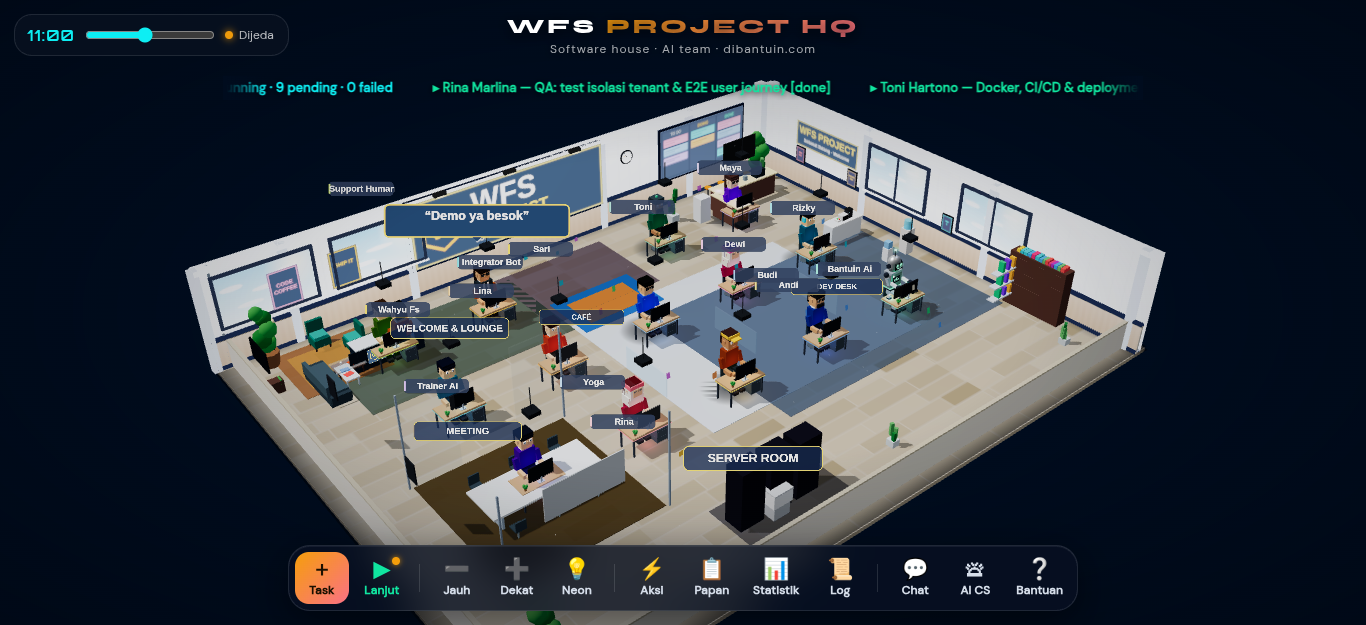
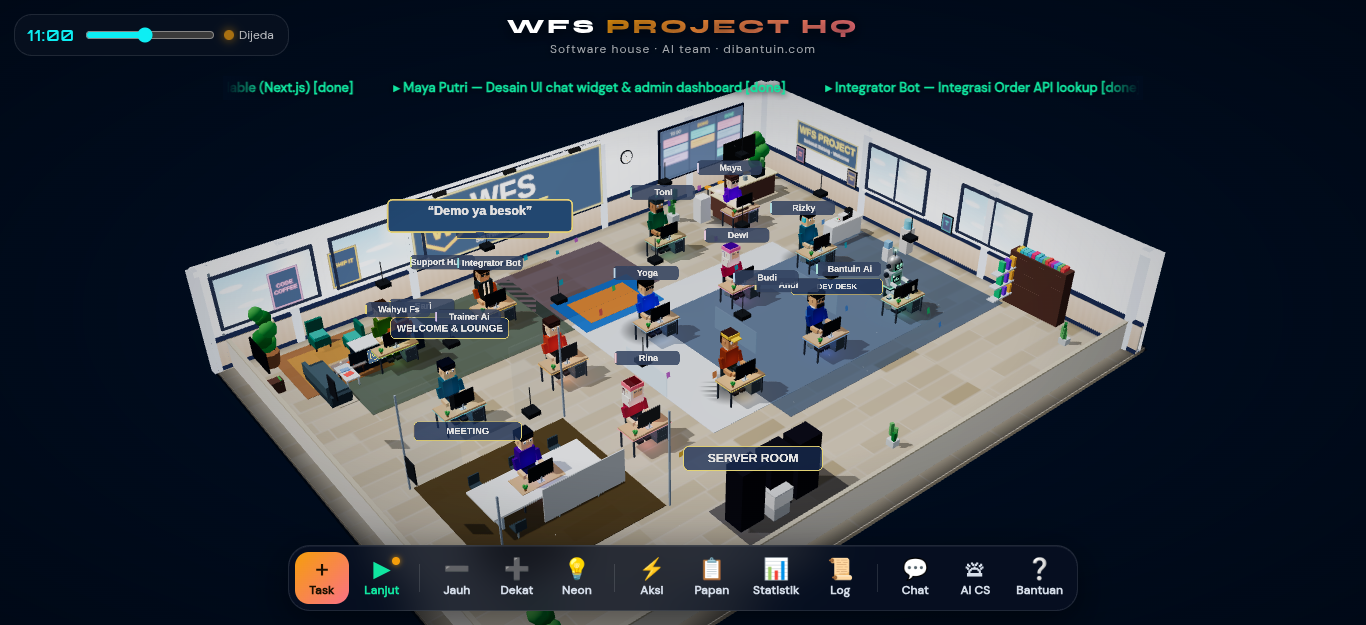
anti-overlap: bubble dialog ikut bergeser mutual (0.35x) saat tabrakan dengan label agent

diff --git a/DEV_LOG.md b/DEV_LOG.md
@@ -311,3 +311,8 @@
 - Insiden: satu eksperimen menimpa file; dipulihkan dari dangling stash commit (2104ca0c) — backup /tmp/OS.bak menyelamatkan.
 - Bukti: build OK, vitest 9/9, eslint OfficeScene 0 error, deploy ~/wfs-hq; e2e CDP 0 console error, agents 14; shot ck.png 510KB.
 - Sisa backlog: bubble vs agent label belum bergeser mutual (bubble statis); 2 pasangan menempel sisa; tofu digit jam headless; verifikasi di browser asli.
+
+## 2026-10-18 00:35 WIB — bubble ikut bergeser mutual vs label agent
+- Backlog "bubble statis" dibereskan: saat bubble tabrakan dgn label agent, bubble kini mundur 0.35x (vertikal) + 0.25x (horizontal) sementara agent bergeser penuh 1.6x/0.9x — dorongan dua arah ringan agar bubble tidak menutup name tag.
+- Bukti: build OK, vitest 9/9, deploy ~/wfs-hq; e2e CDP 0 console error, agents 14; shot ck.png 510KB (vision audit timeout 2x — dicoba lagi run berikutnya).
+- Sisa backlog: 2 pasangan menempel sisa; tofu digit jam headless; verifikasi di browser asli; vision audit bubble mutual tertunda.
